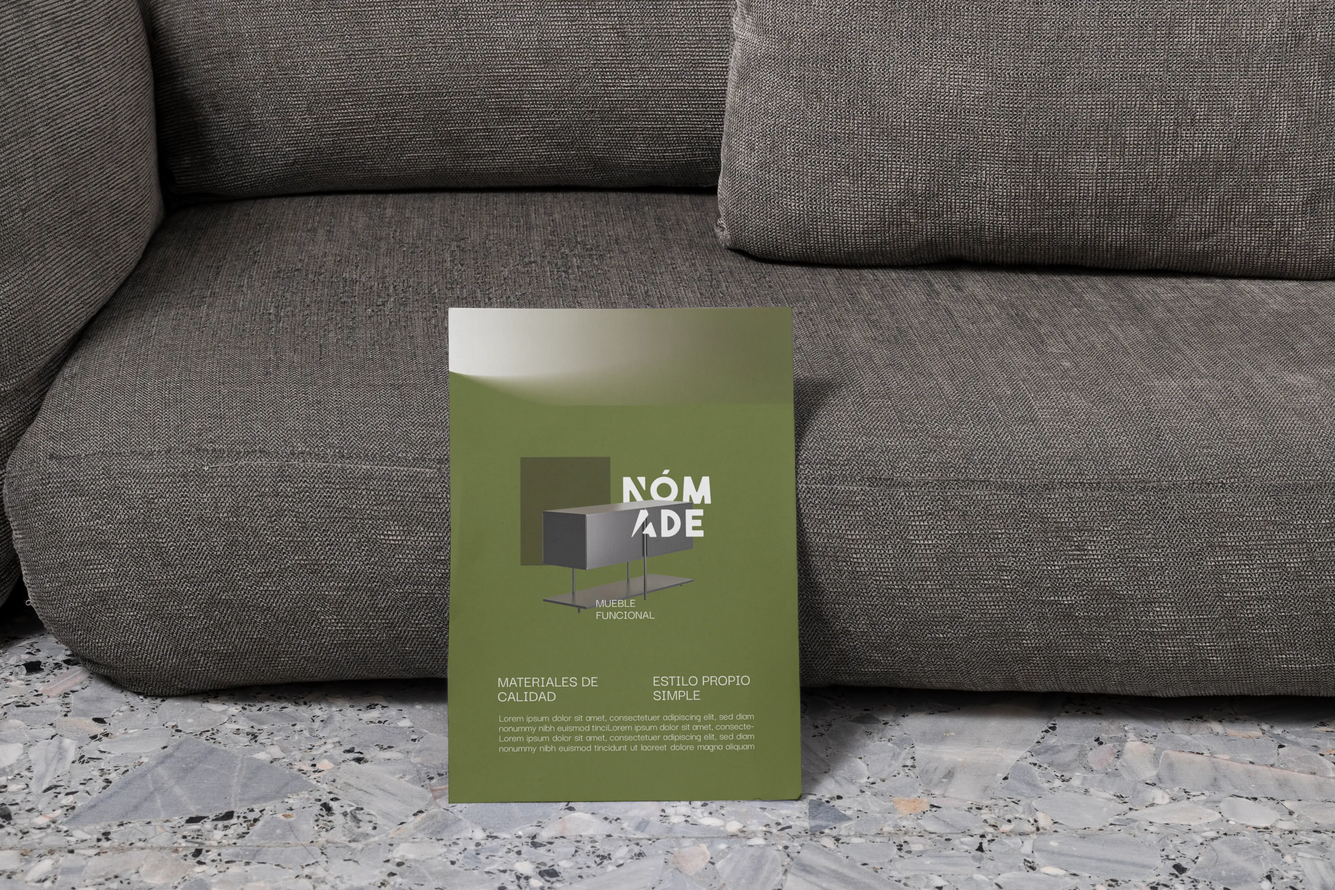
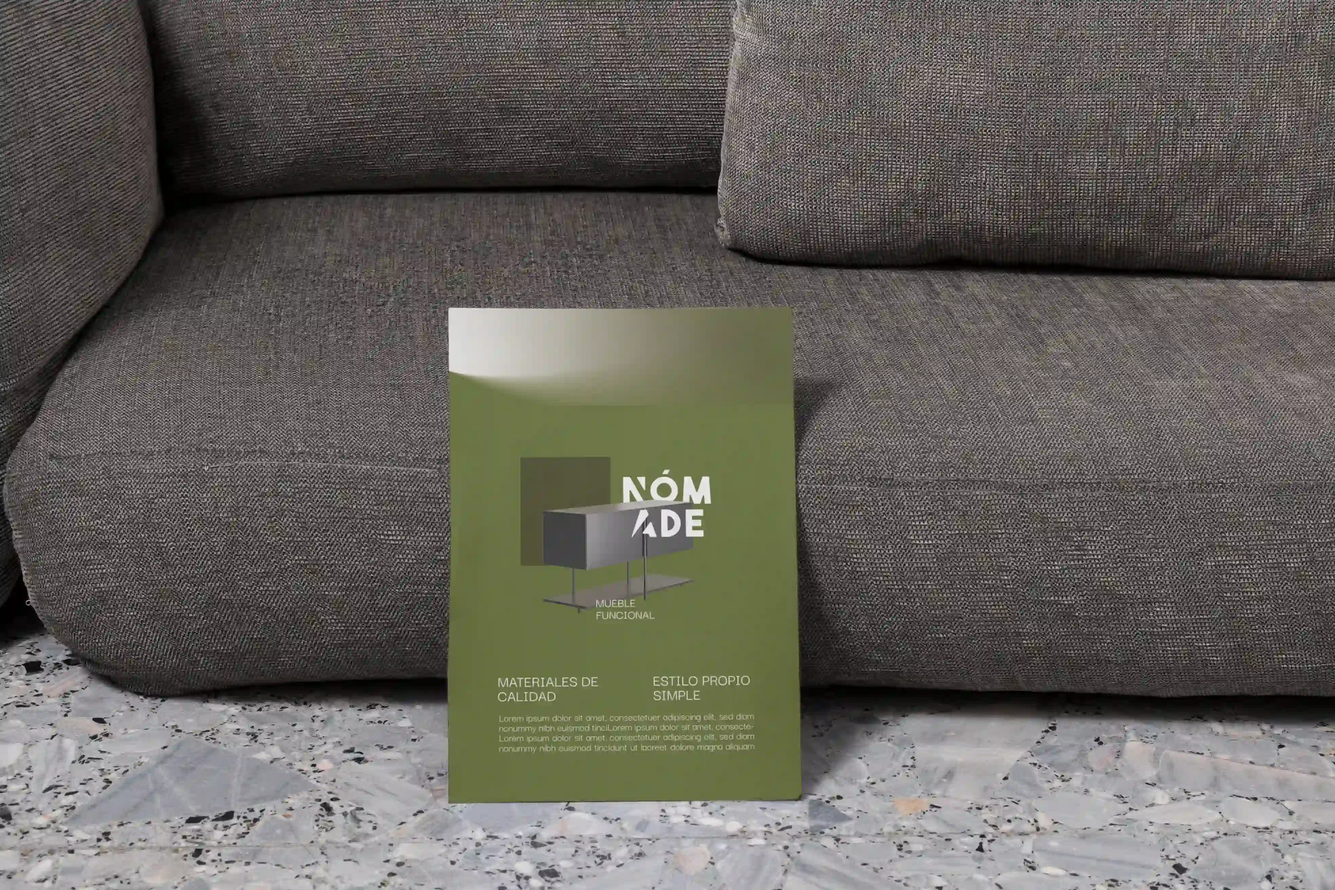
fotos

Changed region(s): [[0.0, 0.0, 1.0, 0.75], [0.0, 0.3125, 0.0625, 0.3438], [0.0, 0.0, 0.0625, 0.0312]]

diff --git a/aduographic/frontend/src/components/Servicios/Redes/Redes.jsx b/aduographic/frontend/src/components/Servicios/Redes/Redes.jsx
@@ -46,7 +46,7 @@ function Redes() {
             transition={{ duration: 0.5, delay: 0.2 }}
             className="image-content"
             style={{
-              backgroundImage: 'url("/redesSociales/redessociales.jpg")',
+              backgroundImage: 'url("/redesSociales/redessociales.webp")',
               backgroundSize: 'cover',
               backgroundPosition: 'center',
             }}
